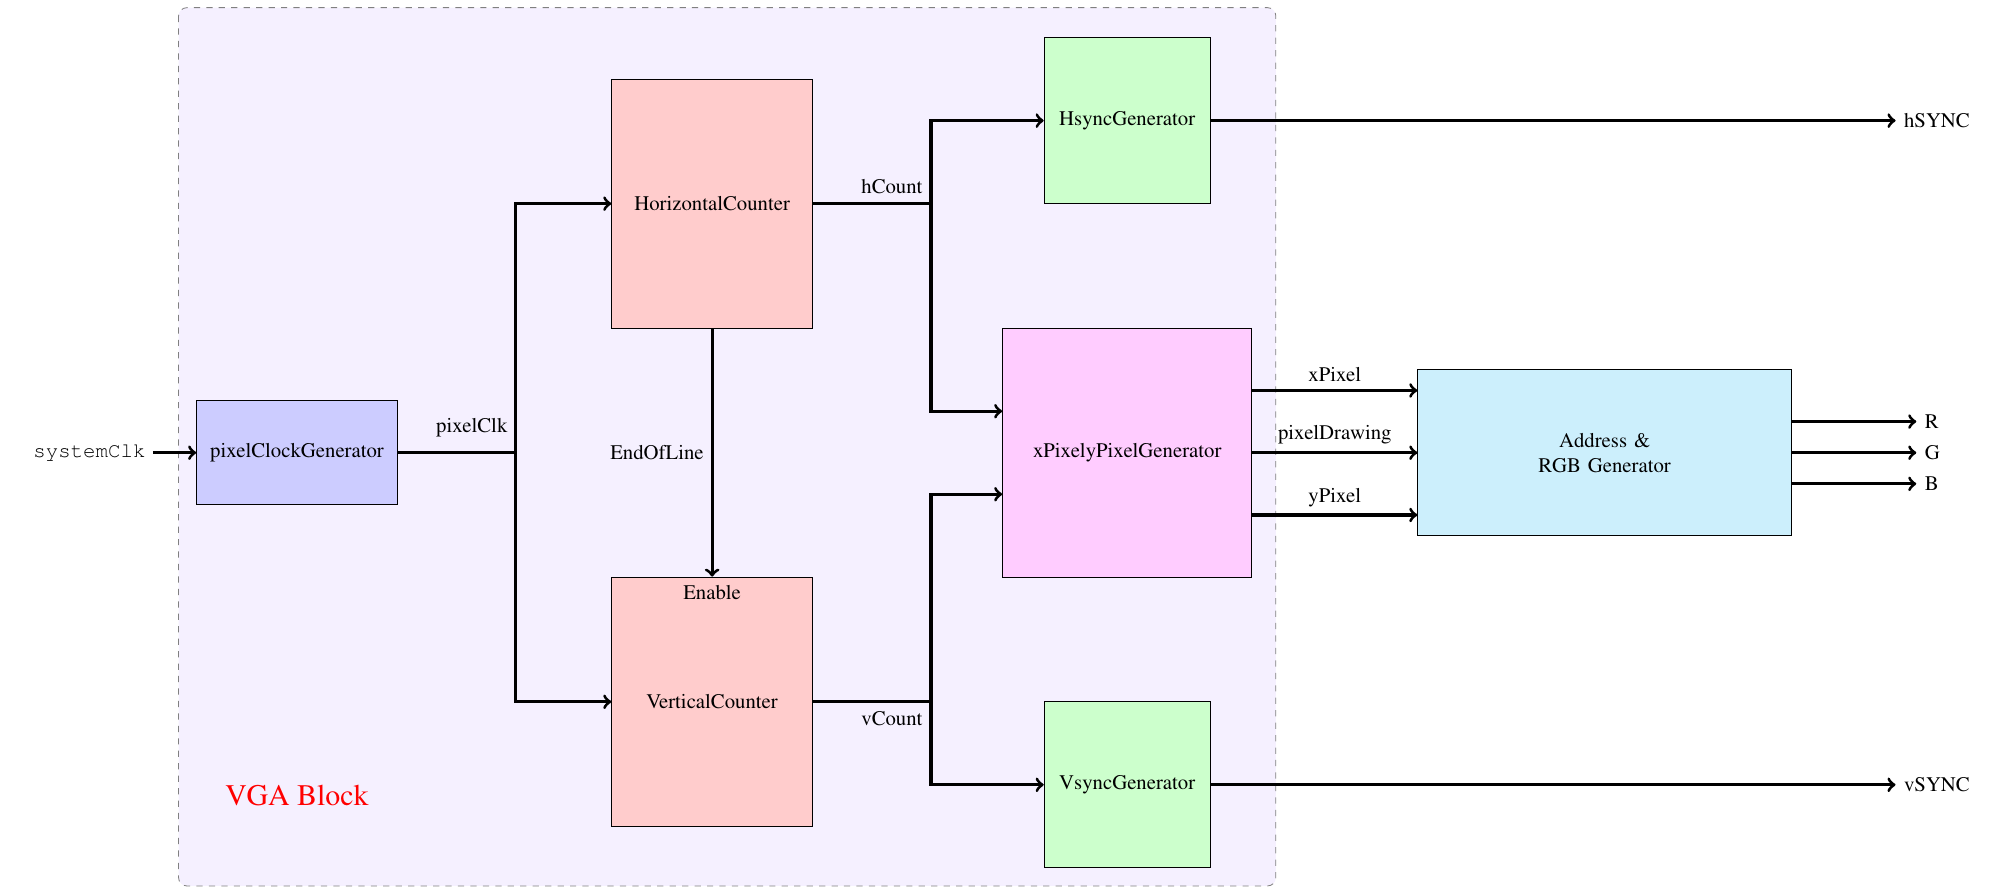
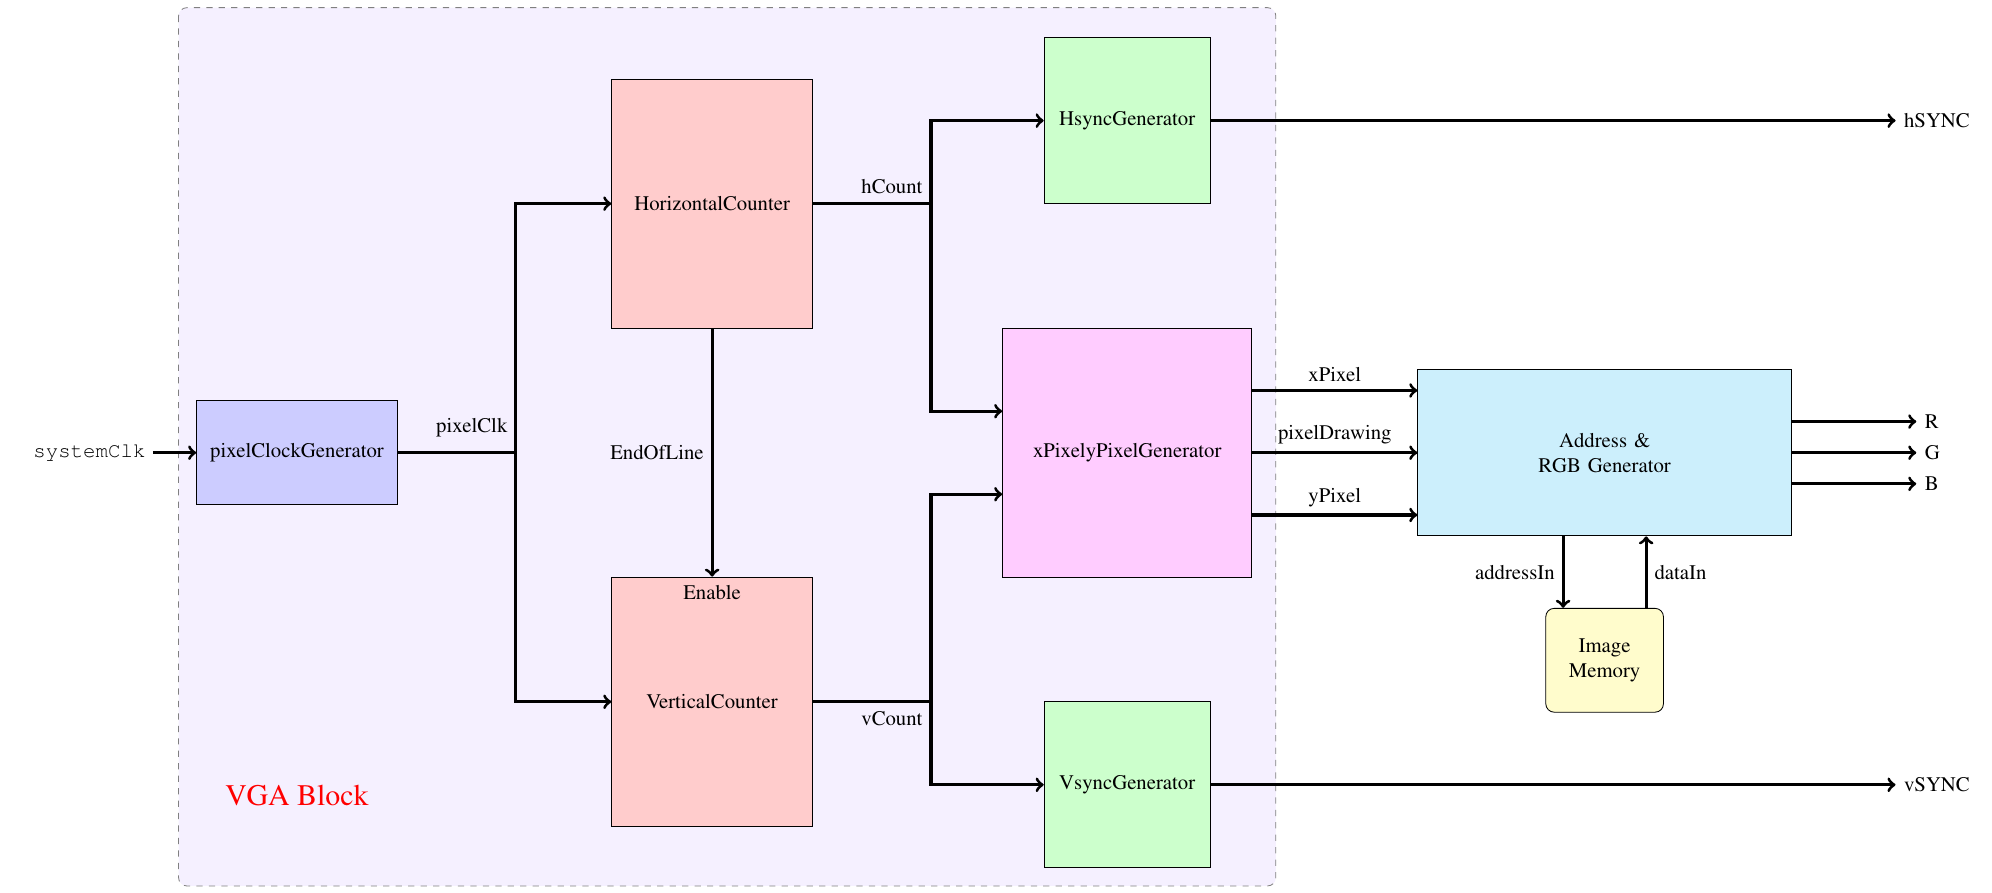
added Block Diagram

Changed region(s): [[0.7781, 0.6349, 0.8715, 0.8163], [0.747, 0.6349, 0.7781, 0.6652]]

diff --git a/DocsResources/GraphicsModeBlockDiagram.tex b/DocsResources/GraphicsModeBlockDiagram.tex
@@ -40,11 +40,11 @@ text centered, minimum height=8em, minimum width=18em]
 \tikzstyle{Blk5}=[draw, fill=cyan!20, text width=7em,
 text centered, minimum height=8em, minimum width=8em]
 
-\tikzstyle{Blk6}=[draw, fill=green!20, text width=8em,
-text centered, minimum height=8em, minimum width=10em]
+\tikzstyle{Blk6}=[draw, fill=green!20, text width=5em,
+text centered, minimum height=5em, minimum width=5em]
 
 \tikzstyle{memBlk}=[draw, fill=yellow!20, text width=5em,
-text centered, minimum height=12em, minimum width=12em, rounded corners]
+text centered, minimum height=5em, minimum width=5em, rounded corners]
 
 
 \begin{tikzpicture}
@@ -91,6 +91,12 @@ text centered, minimum height=12em, minimum width=12em, rounded corners]
     \draw[->, line width=1.5pt] ([yshift=0em]arb.east) -- ([yshift=0em, xshift=6em]arb.east) node[right,pos=1] {G};
     \draw[->, line width=1.5pt] ([yshift=-1.5em]arb.east) -- ([yshift=-1.5em, xshift=6em]arb.east) node[right,pos=1] {B};
 
+
+
+    \node at ([yshift=-10em]arb) (bramMem) [memBlk] {Image Memory};
+
+    \draw[->, line width=1.5pt] ([xshift=-2em]arb.south) -- ([xshift=-2em]bramMem.north) node[left, pos=0.5] {addressIn};
+    \draw[->, line width=1.5pt] ([xshift=2em]bramMem.north) -- ([xshift=2em]arb.south) node[right, pos=0.5] {dataIn};
 
     \begin{pgfonlayer}{L1}
         % Compute a few helper coordinates
